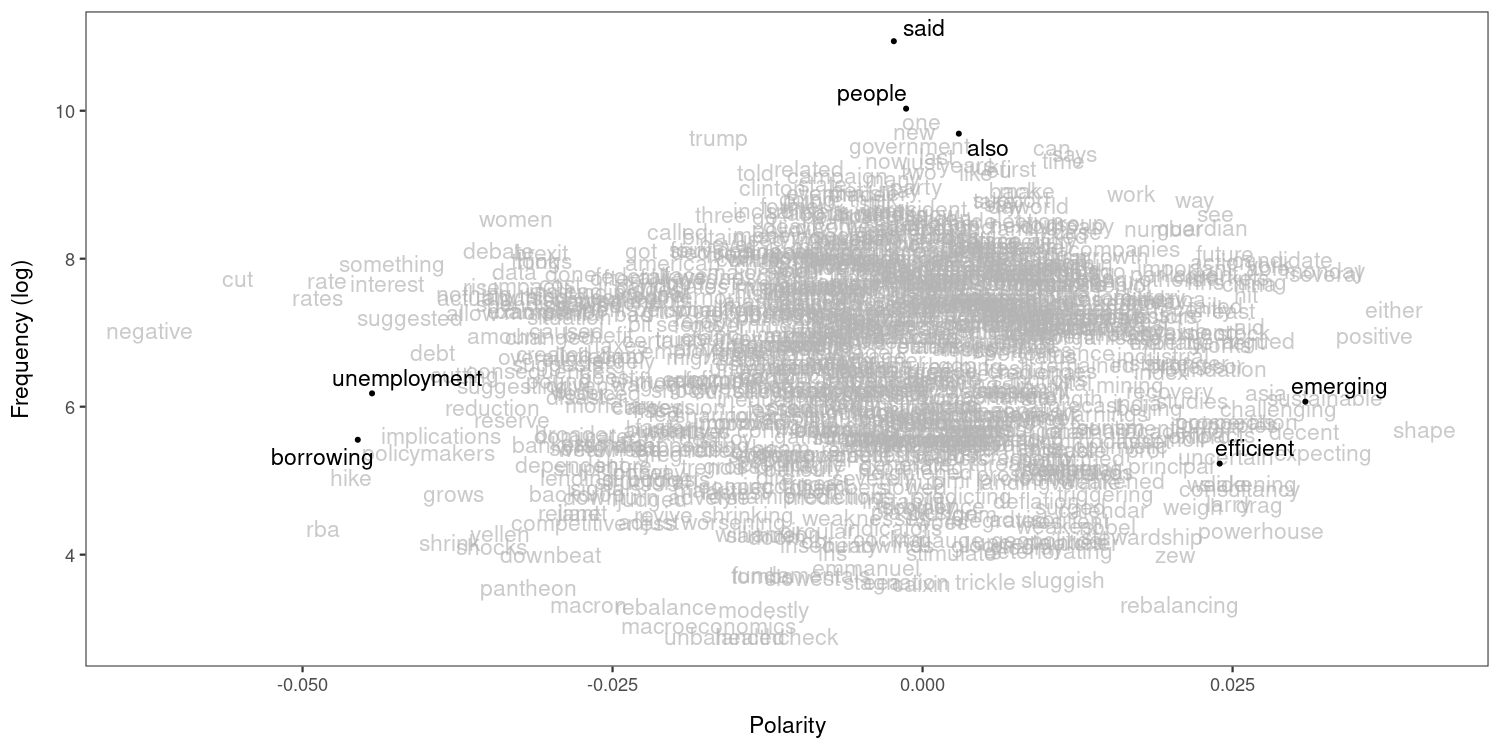
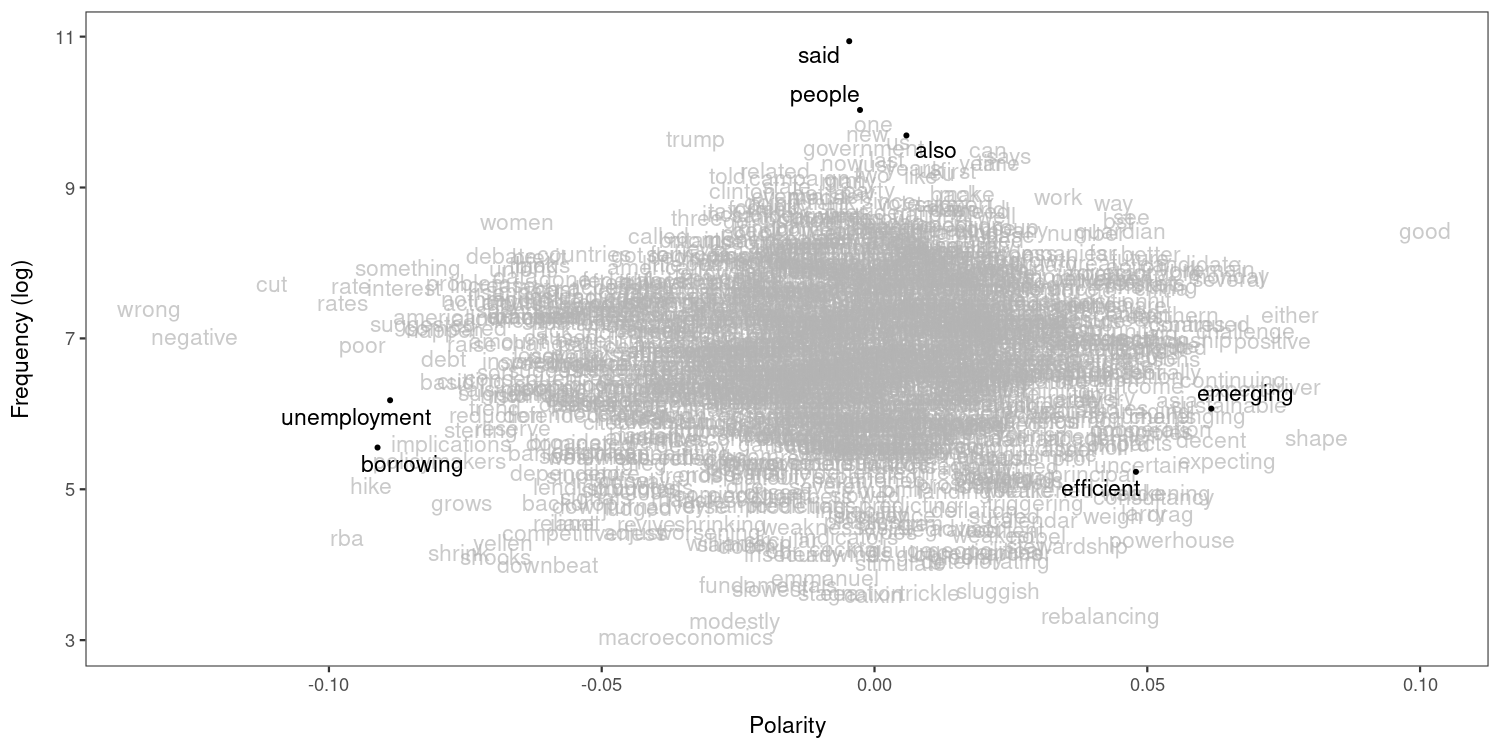
Update README

diff --git a/README.md b/README.md
@@ -73,12 +73,12 @@ dfmt_sent <- toks_sent %>%
     dfm_select("^\\p{L}+$", valuetype = "regex", min_nchar = 2) %>% 
     dfm_trim(min_termfreq = 5)
 
-eco <- char_keyness(toks_sent, "econom*", p = 0.05)
+eco <- char_context(toks_sent, "econom*", p = 0.05)
 lss <- textmodel_lss(dfmt_sent, as.seedwords(data_dictionary_sentiment),
                      terms = eco, k = 300, cache = TRUE)
 ```
 
-    ## Writing cache file: lss_cache/svds_8385b4b1a785d189.RDS
+    ## Reading cache file: lss_cache/svds_819846d785c15a7a.RDS
 
 ### Sentiment seed words
 
@@ -103,27 +103,27 @@ to seed words.
 head(coef(lss), 20) # most positive words
 ```
 
-    ##       shape      either    positive     several sustainable      monday 
-    ##  0.04050151  0.03805443  0.03643996  0.03248623  0.03244807  0.03240911 
-    ##   expecting    emerging      decent   candidate challenging        york 
-    ##  0.03229806  0.03086714  0.03079337  0.02899715  0.02867746  0.02791129 
-    ##        able        asia       thing  powerhouse        drag      argued 
-    ##  0.02787632  0.02772680  0.02733644  0.02727044  0.02715067  0.02712570 
-    ##         aid       china 
-    ##  0.02640394  0.02634768
+    ##        good       shape      driver      either    positive   challenge 
+    ##  0.10086678  0.08100301  0.07652619  0.07610887  0.07287992  0.06801746 
+    ##      expert  continuing     several sustainable      monday   expecting 
+    ##  0.06578380  0.06577131  0.06497246  0.06489614  0.06481823  0.06459612 
+    ##      remain    emerging      decent   continued      shares   candidate 
+    ##  0.06327885  0.06173428  0.06158674  0.05958519  0.05804870  0.05799429 
+    ## challenging          de 
+    ##  0.05735492  0.05725742
 
 ``` r
 tail(coef(lss), 20) # most negative words
 ```
 
-    ##     actually      nothing        allow      cutting        grows       shrink 
-    ##  -0.03599093  -0.03620681  -0.03629741  -0.03694543  -0.03784115  -0.03813461 
-    ## implications         debt policymakers    suggested    something     interest 
-    ##  -0.03883518  -0.03948326  -0.03985111  -0.04133722  -0.04274804  -0.04315672 
-    ## unemployment    borrowing         hike         rate          rba        rates 
-    ##  -0.04439511  -0.04554508  -0.04612325  -0.04799337  -0.04836243  -0.04877024 
-    ##          cut     negative 
-    ##  -0.05523845  -0.06236406
+    ##     compared implications        basic    americans       happen         debt 
+    ##  -0.07677553  -0.07767036  -0.07848986  -0.07850078  -0.07874437  -0.07896652 
+    ## policymakers    suggested    something     interest unemployment    borrowing 
+    ##  -0.07970222  -0.08267444  -0.08549609  -0.08631343  -0.08879022  -0.09109017 
+    ##         hike         poor         rate          rba        rates          cut 
+    ##  -0.09224650  -0.09393369  -0.09598675  -0.09672486  -0.09754047  -0.11047689 
+    ##     negative        wrong 
+    ##  -0.12472812  -0.13293973
 
 This plot shows that frequent words (“said”, “people”, “also”) are
 neutral while less frequent words such as “borrowing”, “unemployment”,
